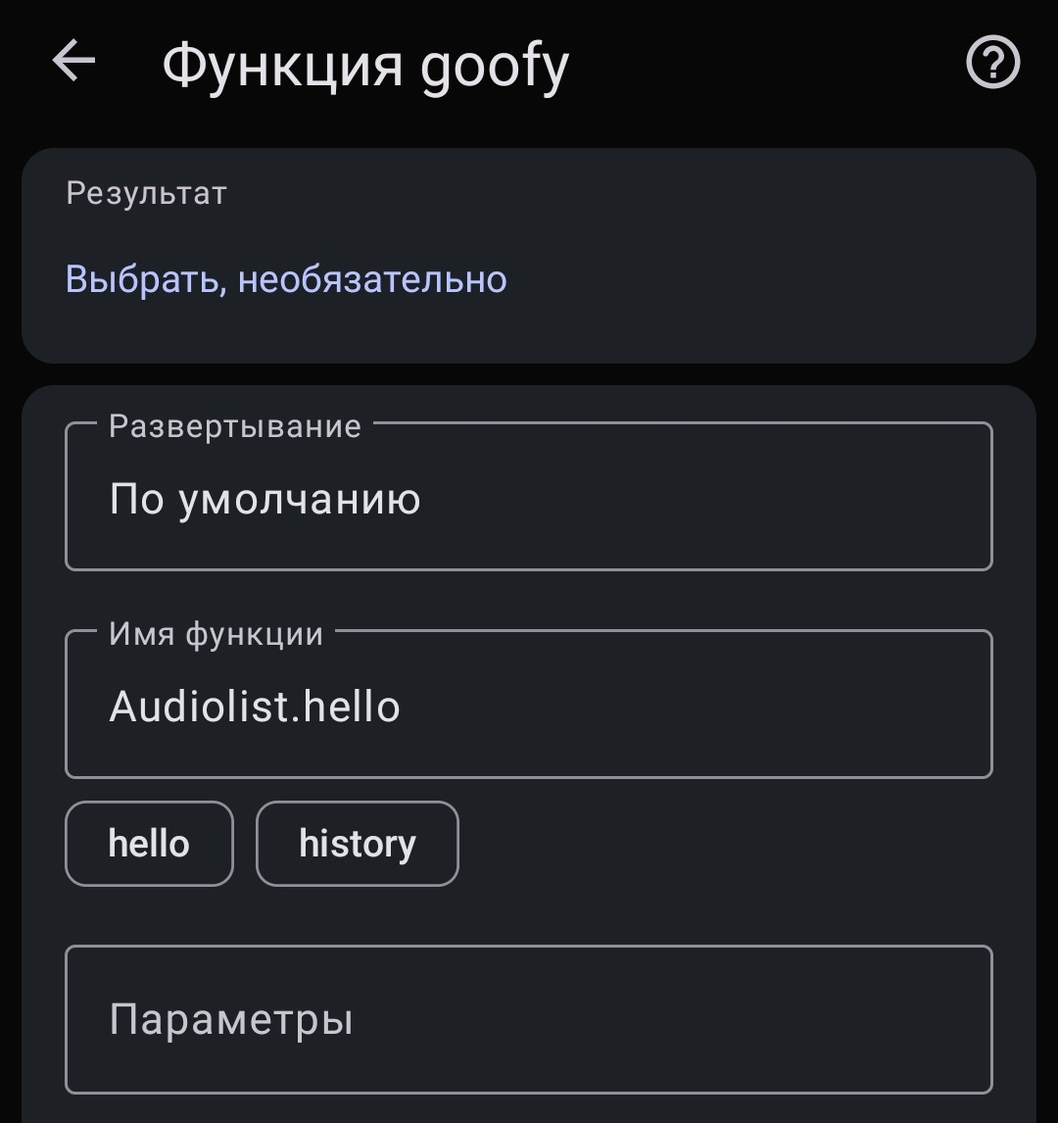
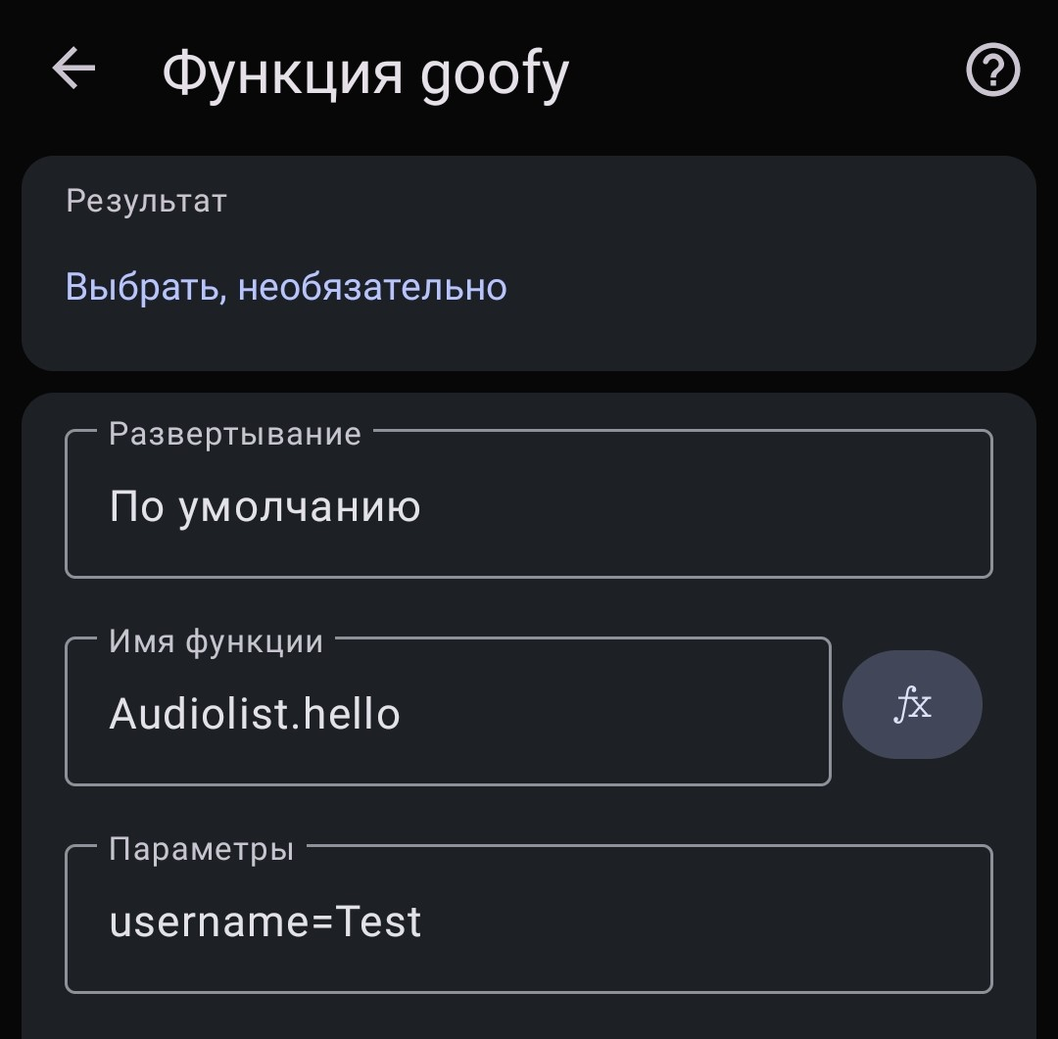
Обновлено: модуль и инструкция Audiolist

diff --git a/library.js b/library.js
@@ -391,7 +391,7 @@ const Audiolist = (function () {
     }
 
     return {
-        MESSAGE_TYPES, VARIABLE_TYPES, responseMessage, responseItems, response, combineInputVariables,
+        MESSAGE_TYPES, VARIABLE_TYPES, responseMessage, responseItems, response,
 
         onPost(args) {
             try {
@@ -406,6 +406,9 @@ const Audiolist = (function () {
                 data.getItems = function (name) {
                     return data.inputVariables.find((variable) => variable.name == name).items
                 }
+                data.combineItems = function (targetType) {
+                    return combineInputVariables(data, targetType)
+                }
                 return func(data)
             } catch (e) {
                 console.error(e.stack)
@@ -413,8 +416,8 @@ const Audiolist = (function () {
             }
         },
 
-        hello() {
-            return responseMessage('Hello world! Тебе удалось соединить goofy и Audiolist. Можешь запускать любые функции и отправлять ответы. Например, встроенная функция "Audiolist.history" пришлет все треки из истории прослушиваний goofy. Чтобы использовать их в следующих командах, добавь выходную переменную для команды "Функция goofy".')
+        hello(data) {
+            return responseMessage(`Hello World, ${data.ini.username || User.getUser()?.display_name || 'Username'}! Тебе удалось соединить goofy и Audiolist. Можешь запускать любые функции и отправлять ответы. Например, встроенная функция "Audiolist.getRecentTracks" пришлет все треки из истории прослушиваний goofy. Чтобы использовать эти треки в следующих командах, добавь переменную результата для команды "Функция goofy".`)
         },
 
         history(data) {
@@ -438,7 +441,7 @@ const Audiolist = (function () {
                 Filter.rangeDateRel(recentItems, data.ini.sinceDays, data.ini.beforeDays)
             }
 
-            let itemsFromAudiolist = combineInputVariables(data, VARIABLE_TYPES.SPOTIFY_TRACK)
+            let itemsFromAudiolist = data.combineItems(VARIABLE_TYPES.SPOTIFY_TRACK)
             Filter.removeTracks(itemsFromAudiolist, recentItems)
             if (itemsFromAudiolist.length > 0) {
                 RecentTracks.appendTracks(filename, itemsFromAudiolist)
@@ -467,10 +470,19 @@ const Audiolist = (function () {
         },
 
         writeCache(data) {
-            let items = combineInputVariables(data)
+            let items = data.combineItems()
             Cache.compressTracks(items)
             Cache.write(data.ini.filename, items)
             return Audiolist.responseMessage(`${items.length} - элементов в файле "${data.ini.filename}"`)
+        },
+
+        appendCache(data) {
+            let items = data.combineItems()
+            if (items.length > 0) {
+                Cache.compressTracks(items)
+                Cache.append(data.ini.filename, items, data.ini.place)
+            }
+            return Audiolist.responseMessage(items.length > 0 ? `+${items.length} в "${data.ini.filename}"` : `В файл "${data.ini.filename}" ничего не добавлено`)
         }
     }
 })()
@@ -3502,6 +3514,7 @@ const User = (function () {
     return {
         get id() { return KeyValue['userId'] },
         get country() { return getUser().country },
+        getUser,
     };
 
     function setProfile() {

diff --git a/docs/audiolist.md b/docs/audiolist.md
@@ -1,6 +1,6 @@
 # Audiolist
 
-Начиная с версии `2.1` goofy умеет принимать запросы от [андроид приложения Audiolist](https://play.google.com/store/apps/details?id=ru.chimildic.audiolist) и возвращать ответ при необходимости.
+goofy `2.1+` умеет взаимодействовать с [андроид приложением Audiolist](https://play.google.com/store/apps/details?id=ru.chimildic.audiolist). Приложение может как просто запустить любую функцию goofy, так и выстроить сложное взаимодействие с передачей параметров и треков.
 
 ## Настройка
 
@@ -17,40 +17,56 @@
 
 ### Audiolist
 
-1. Создайте программу в Audiolist и добавьте команду `функция goofy`. 
-2. Укажите `идентификатор развертывания`, полученный при настройке goofy. В качестве _имени функции_ для примера используем `Audiolist.hello`.
+1. Создайте программу в Audiolist и добавьте команду `Функция goofy`. 
+2. Укажите `идентификатор развертывания` полученный при настройке goofy. В качестве _имени функции_ для примера напишите `Audiolist.hello` (встроенные функции доступны по кнопке <kbd>fx</kbd>).
 
   ![Команда "Функция goofy"](/img/goofy-command-audiolist.jpg ':size=60%')
 
-3. Выйдите из редактора программы и запустите выполнение программы. Если все сделано верно, в логах появится сообщение от goofy.
+1. Выйдите из редактора программы и запустите программу. Если все сделано верно, в логах появится сообщение от goofy.
 
-## Использование
-
-Важно три вещи:
+## Важно
 
 1. Правильное имя функции в настройках команды. Регистр букв имеет значение.
 2. Возврат результата. Audiolist использует типизированный язык программирования и ожидает строгий формат ответа.
 3. Обновление развертывания при любом изменении кода goofy. Развертывание - это изолированная копия. Если добавить/изменить функцию и не обновить развертывание, Audiolist не сможет её вызвать.
 
-### Пустой ответ
+## Обновление развертывания
+
+Нажмите _начать развертывание_ > _управление развертываниями_. В левом списке выберите Audiolist, нажмите кнопку редактирования. Выберите _новую версию_ в списке и нажмите _начать развертывание_.
+
+Иногда Apps Script сбрасывает названия развертываний (похоже на баг). Вам нужно обновлять то развертывание, идентификатор которого указан в команде "Функция goofy".
+
+   ![Новое развертывание](/img/update-deploy-audiolist.png ':size=60%')
+
+### Архив развертываний
+
+Старые версии развертываний попадают в архив. Apps Script устанавливает лимит на количество развертываний (~200). Если вам укажут на лимит или просто накопилось много ненужных версий, в левом меню Apps Script выберите _история версий_. Справа появится список _история проекта_. Внизу списка есть кнопка _массового удаления версий_. Актуальную версию не удалит.
+
+
+## Использование
+
+### Запуск функции
+
+Когда нужен _только_ запуск функции, верните пустой ответ. Имя функции `doSomething` указывается в соответствующем поле команды `Функция goofy`.
 
 ```js
 function doSomething() {
-    // Алгоритм вашей функции
+    // Алгоритм функции
     // ...
 
-    // Возврат результата
     return Audiolist.response()
 }
 ```
 
-### Возврат текста
+### Ответ на запуск
 
-Помимо текста можно указать тип: обычное, предупреждение, ошибка. От типа зависит цвет сообщения в логах. При типе _ошибка_ программа в Audiolist прервется.
+#### Сообщение
+
+Чтобы вернуть результат в виде сообщения, укажите текст и тип. От типа зависит цвет текста в логах программы: обычное - `DEFAULT`, предупреждение - `WARNINNG`, ошибка - `ERROR`. При выборе типа `ERROR` программа на стороне Audiolist прервется. 
 
 ```js
 function doSomethingMessage() {
-    // Алгоритм вашей функции
+    // Алгоритм функции
     // ...
 
     let text = "Этот текст появится в логах Audiolist"
@@ -58,9 +74,10 @@ function doSomethingMessage() {
 }
 ```
 
-### Возврат треков
+#### Треки
 
-Чтобы Audiolist смог преобразовать массив элементов от goofy в понятный для себя формат, необходимо указать один из типов `Audiolist.VARIABLE_TYPES`. Пример кода ниже возвращает 20 любимых Spotify треков. Однако на практике в такой функции нет смысла. Audiolist имеет свои команды для сбора треков. Проще получить те же любимые треки не прибегая к goofy. Но будет полезно для импорта других источников (кэш, радио и прочее).
+Чтобы Audiolist мог принять треки от goofy, необходимо указать их тип: треки Spotify - `SPOTIFY_TRACK`, last.fm треки - `LASTFM_TRACK`, треки в виде построчного текста - `TEXT_TRACK`.
+
 
 ```js
 function doSomethingItems() {
@@ -71,42 +88,50 @@ function doSomethingItems() {
 }
 ```
 
-### Получение треков
+### Получение данных
 
-Доступна отправка нескольких переменных из Audiolist. В goofy это будет массив объектов по пути `data.inputVariables`. Для получения массива треков по имени переменной используйте функцию `getItems`.
+Функция принимает аргумент `data`, который содержит `inputVariables` с массивом переменных и объект `ini` с параметрами от Audiolist.
+
+#### Переменные
+
+Используйте функциию `data.getItems` чтобы получить массив элементов по имени переменной. 
+Для получениях всех элементов сразу - функцию `data.combineItems`. Обратите внимание, что во втором случае тип всех переменных должен быть одинаковым. Например, нельзя смешивать треки разных платформ.
 
 ```js
 function complexExample(data) {
-    let tracksFromAudiolist = data.getItems('Имя переменной как в Audiolist')
-    // ...
+    let variableItems = data.getItems('Имя переменной как в Audiolist')
+    let allItems = data.combineItems()
 
-    let tracks = // ...
+    let modifiedItems = // ...
 
     return Audiolist.response({
         message: 'Сообщение для логов',
         messageType: Audiolist.MESSAGE_TYPES.DEFAULT,
         variableType: Audiolist.VARIABLE_TYPES.SPOTIFY_TRACK,
-        items: tracks,
+        items: modifiedItems,
     })
 }
 ```
 
-### Получение параметров
+#### Параметры
 
-На стороне Audiolist есть поле `параметры` в `ini` формате. На стороне goofy данные парсятся в объект по пути `data.ini`. Необработанные данные по пути `data.iniRaw`.
+В команде `Функция goofy` есть поле `параметры` для отправки строк и чисел. 
 
-В `ini` формате на каждой строке находятся пары вида `ключ=значение`. Имя ключа произвольно, но без пробелов и на английском. Регистр букв важен.
+Поле заполняется в формате `ini`: на каждой строке указывается пара `key=value`, где `key` ключ для идентификации параметра, `value` значение. Имя ключа произвольно, но без пробелов и на английском. Регистр букв важен.
 
-Например, задача получить от goofy 50 треков из файла с кэшем. Чтобы функция получилась универсальной, имя файла и количество треков сделаем параметрами.
+Например, задача получить от goofy 50 треков из файла с кэшем. Чтобы функция получилась универсальной, имя файла `filename` и количество треков `count` сделаем параметрами.
 
 ```
 filename=SavedTracks
 count=50
 ```
 
+Тогда функция получит их по пути `data.ini.filename` и `data.ini.count`. В результате можно менять файл и количество только в приложении. Функция `getTracksFromCache` остается неизменной.
+
 ```js
 function getTracksFromCache(data) {
     let tracks = Cache.read(data.ini.filename)
+
     return Audiolist.response({
         message: `${data.ini.count} треков из файла "${data.ini.filename}"`,
         messageType: Audiolist.MESSAGE_TYPES.DEFAULT,
@@ -131,7 +156,7 @@ size=10
 likes=3
 ```
 
-В результате goofy создаст объект со следующей структурой.
+В результате получится `data.ini` со следующей структурой.
 ```
 {
     array: ["a", "b", "c"],
@@ -149,14 +174,23 @@ likes=3
 }
 ```
 
-## Обновление развертывания
+### Встроенные функции
 
-Нажмите _начать развертывание_ > _управление развертываниями_. В левом списке выберите Audiolist, нажмите кнопку редактирования. Выберите _новую версию_ в списке и нажмите _начать развертывание_.
+В приложении есть быстрый выбор встроенных функций, которые находятся в модуле `Audiolist`.
 
-Иногда Apps Script сбрасывает названия развертываний (похоже на баг). Вам нужно обновлять то развертывание, идентификатор которого указан в команде "Функция goofy".
-
-   ![Новое развертывание](/img/update-deploy-audiolist.png ':size=60%')
-
-### Архив развертываний
-
-Старые версии развертываний попадают в архив. Apps Script устанавливает лимит на количество развертываний (~200). Если вам укажут на лимит или просто накопилось много ненужных версий, в левом меню Apps Script выберите _история версий_. Справа появится список _история проекта_. Внизу списка есть кнопка _массового удаления версий_. Актуальную версию не удалит.
+- `Audiolist.hello` - возвращает текствое сообщение, чтобы проверить связь с goofy. 
+  - `username` - тестовый параметр для проверки того как работать с параметрами.
+- `Audiolist.getRecentTracks` - возвращает историю прослушиваний от `RecentTracks.get`.
+  - `limit` - ограничение количества треков, необязательно.
+  - `sinceDays` и `beforeDays` - фильтр по относительной дате, необязательно.
+- `Audiolist.syncRecentTracks` - синхронизация истории прослушиваний. Предполагается, что Audiolist отправит историю из мониторинга за день, чтобы эта функция добавила их в кэш goofy. Также функция вернет историю goofy за день, чтобы Audiolist мог дополнитить свою историю (отдельной командой). Поскольку приложению недоступны прослушивания с других устройств.
+  - `sinceDays` и `beforeDays` - регулировка периода истории, по умолчнаию текущий день.
+- `Audiolist.readCache` - чтение файла кэша.
+  - `filename` - имя файла.
+  - `limit` - ограничение количества элементов, необязательно.
+  - `sinceDays` и `beforeDays` - фильтр по относительной дате, необязательно.
+- `Audiolist.writeCache` - запись в файл кэша.
+  - `filename` - имя файла.
+- `Audiolist.appendCache` - добавить к элементам кэша.
+  - `filename` - имя файла.
+  - `place` - добавить в начало `begin` или в конец `end`.

diff --git a/docs/reference/cache.md b/docs/reference/cache.md
@@ -26,7 +26,7 @@
 | `filepath` | Строка | [Путь до файла](/best-practices?id=Путь-до-файла). |
 | `content` | Массив | Данные для добавления. |
 | `place` | Строка | Место соединения: `begin` - начало, `end` - конец. По умолчанию `end`. |
-| `limit` | Число | Ограничить число элементов массива после присоединения новых данных. </br> По умолчанию 200 тысяч элементов. |
+| `limit` | Число | Ограничить число элементов массива после присоединения новых данных. </br> По умолчанию 400 тысяч элементов. |
 
 ### Возврат :id=append-return {docsify-ignore}
 
